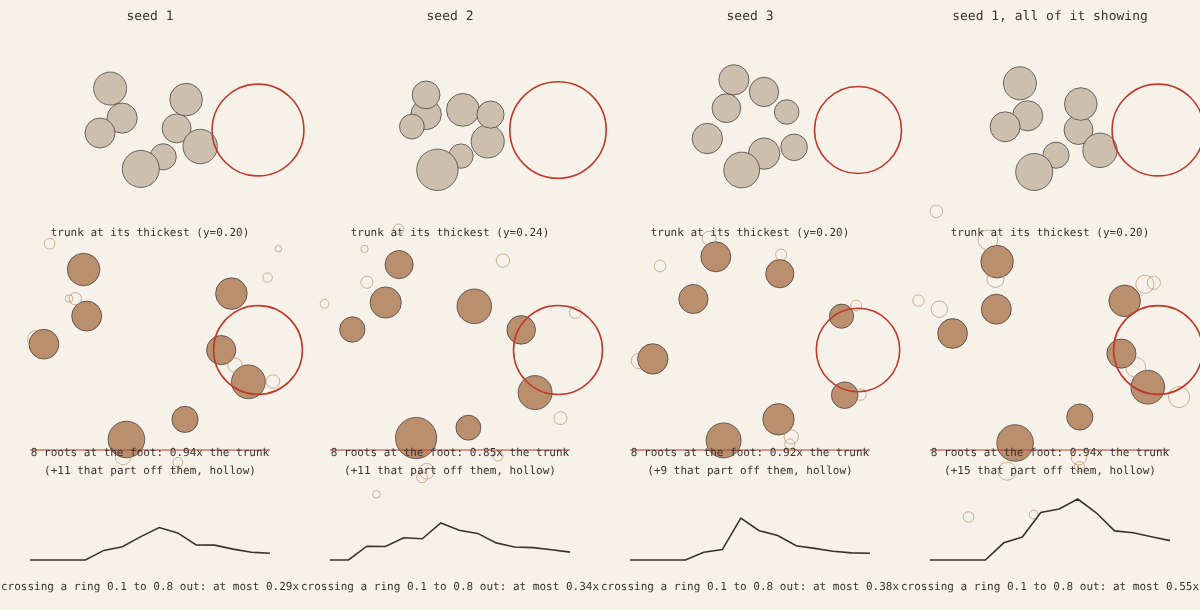
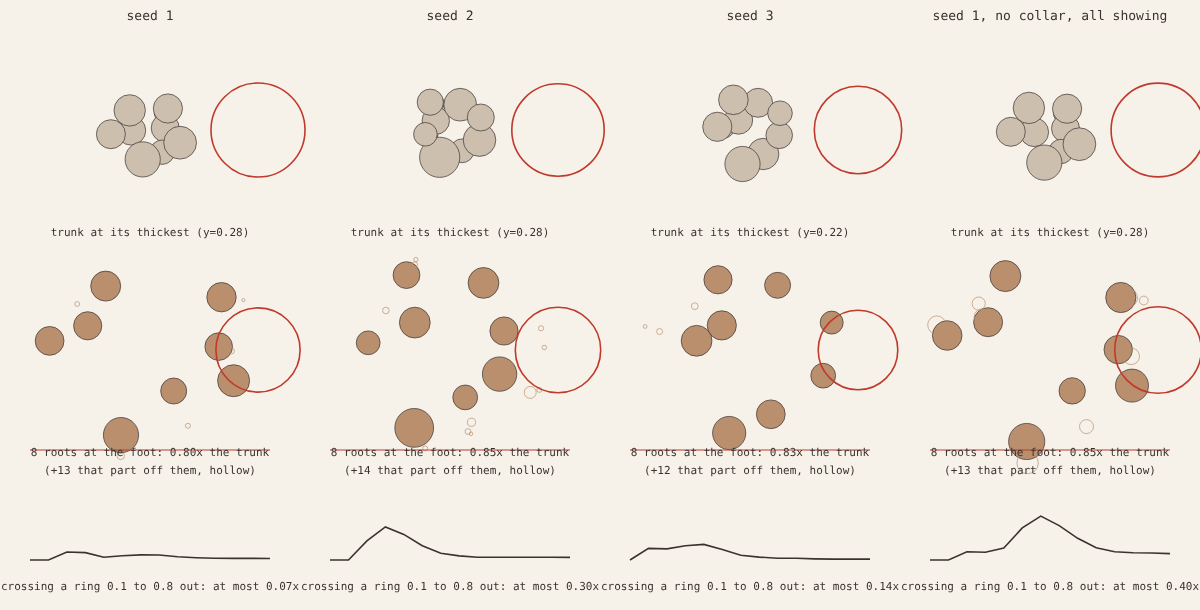
Roots half as long, and thin along their run while leaving the trunk at its own girth: a buttress rather than a leg
Claude-Session: https://claude.ai/code/session_0192rgp75jGkttZXf7hEakip

diff --git a/trees.js b/trees.js
@@ -30,7 +30,7 @@
   function frames(P) { let N = null; return P.map((p, i) => { const T = unit([0, 1, 2].map((k) => P[Math.min(P.length - 1, i + 1)][k] - P[Math.max(0, i - 1)][k])); N = unit((N || [1, 0, 0.2]).map((v, k, A) => v - T[k] * dot(A, T))); return [T, N, cross(T, N)]; }); }
 
   function grow(recipe) {
-    const P = Object.assign({ strands: 8, fill: 0.75, uneven: 0.5, twist: 0.5, taut: 0.3, stiff: 0.05, hug: 0.15, bind: 0.004, roots: 0.6, wind: 1.1, mixed: false, lmax: 0, set: 0, swell: 1, feet: 0, lap: 0, ground: null, down: 0.6, crease: 0.5, snake: 1, air: 0.18, reach: 0.6, forks: 1, dive: 0.12, grip: 0.62, clear: 1, settle: 0, giving: 0.75, passes: 1500, ds: 0.035, seed: 1, trunk: [[0, 0.14, 0, 0.27], [0, 1.6, 0, 0.1]], limbs: [], orb: null }, recipe);
+    const P = Object.assign({ strands: 8, fill: 0.75, uneven: 0.5, twist: 0.5, taut: 0.3, stiff: 0.05, hug: 0.15, bind: 0.004, roots: 0.6, wind: 1.1, mixed: false, lmax: 0, set: 0, swell: 1, feet: 0, lap: 0, ground: null, down: 0.6, crease: 0.5, snake: 1, air: 0.18, reach: 0.6, forks: 1, dive: 0.12, grip: 0.36, collar: 2.7, flare: 0.06, clear: 1, settle: 0, giving: 0.75, passes: 1500, ds: 0.035, seed: 1, trunk: [[0, 0.14, 0, 0.27], [0, 1.6, 0, 0.1]], limbs: [], orb: null }, recipe);
     // The ground, if the tree is given one: any function of a place that is how far it is outside the ground (less than
     // nothing inside). Without one the ground is the level at height 0, as it always was. (A grown tree is always given one, level if nothing else, so that its roots are walked.)
     const G = P.ground, gradG = G ? (x, y, z) => { const e = 0.008; return unit([G(x + e, y, z) - G(x - e, y, z), G(x, y + e, z) - G(x, y - e, z), G(x, y, z + e) - G(x, y, z - e)]); } : null, rootPts = [];
@@ -50,14 +50,16 @@
     //   and takes hold where it lands. If not, it stays on the surface.
     //   It keeps its girth along its length: it gets finer by dividing, not by tapering. But not all of what the
     //   trunk carries comes out where it can be seen. Only `grip` of a strand's girth leaves as a surface root;
-    //   the rest goes straight down at the foot and is never drawn. So a root narrows from the trunk's own girth
-    //   to that over the first short stretch, which is the collar, and all the roots together are then well under
-    //   the trunk's section, as they must be. Only a root that does not go into the ground runs out to a point.
+    //   the rest goes straight down at the foot and is never drawn. But it leaves at the trunk's own girth and
+    //   narrows to its running girth within `flare`, under a trunk's width: so the wood is continuous out of the
+    //   trunk, as a buttress, and thin along the ground, and the roots together are well under the trunk's
+    //   section, as they must be. (`collar` x `grip` is about 1: the two are set together.) Only a root that does
+    //   not go into the ground runs out to a point. A root that parted off another has no collar of its own.
     // Going down a face or through the air counts little toward its length, so a root that leaves the level it
     // began on runs on until it has ground under it again.
     const walk = G ? (p0, away, rho0, len, dives, collar) => { const rx = [], rr = [], c0 = G(p0[0], p0[1], p0[2]), most = Math.round(len / ds) * 5, kmax = ds / (2.6 * Math.max(0.025, rho0)), wob = TAU * r(), wl = 0.25 + 0.3 * r();
       let pos = p0, h = away, prog = 0, curl = 0, air = 0, gone = 0;
-      const girth = (g, far) => rho0 * (collar ? P.grip + (1 - P.grip) * Math.pow(Math.max(0, 1 - far / (2 * P.dive)), 1.5) : 1) * (dives ? 1 : Math.pow(Math.min(1, (1 - g) / 0.22), 0.7) * 0.9 + 0.1);
+      const girth = (g, far) => rho0 * (collar ? P.grip * (1 + (P.collar - 1) * Math.pow(Math.max(0, 1 - far / P.flare), 1.6)) : 1) * (dives ? 1 : Math.pow(Math.min(1, (1 - g) / 0.22), 0.7) * 0.9 + 0.1);
       const room = (pr, own) => { if (Math.abs(pr[0]) > 0.97 || Math.abs(pr[2]) > 0.97) return 0; let near = 0.22; for (const q of rootPts) near = Math.min(near, H(pr[0] - q[0], pr[1] - q[1], pr[2] - q[2])); for (let e = 0; e < own; e++) near = Math.min(near, H(pr[0] - rx[e][0], pr[1] - rx[e][1], pr[2] - rx[e][2])); return near; };
       for (let m = 1; m <= most && prog < len; m++) { const g = Math.min(1, prog / len), rad = girth(g, gone), nn = gradG(pos[0], pos[1], pos[2]), hug = rad * (0.4 + 0.22 * Math.sin(wob + TAU * gone / wl)), want = c0 + (hug - c0) * sstep(0, P.dive, gone) - (dives ? 0.3 * sstep(0.72, 1, g) : 0);
         let tt = h.map((v, k) => v - nn[k] * dot(h, nn)); const dn = UP.map((v, k) => -(v - nn[k] * nn[1])), dl = H(dn[0], dn[1], dn[2]); if (H(tt[0], tt[1], tt[2]) < 0.2) tt = dl > 1e-6 ? dn : cross(nn, [1, 0, 0]); tt = unit(tt);
@@ -122,7 +124,8 @@
       }
       // its root: the strand itself coming down from the foot of the trunk the way it faces there, heavy, and
       // most often going into the ground. A few stay on it and run out to a point.
-      const p0 = X[0], away = H(p0[0] - trunk[0][0], p0[2] - trunk[0][2]) > 1e-4 ? unit([p0[0] - trunk[0][0], 0, p0[2] - trunk[0][2]]) : [1, 0, 0], len = P.roots * (0.5 + 0.5 * r()), bend = 2.6 * (r() - 0.5), dives = r() < 0.75, rx = [], rr = [], rg = []; let q = p0, Kr = Math.max(6, Math.round(len / ds));
+      // (on ground nearly all roots go into it at their end; the old flat roots are left as they were)
+      const p0 = X[0], away = H(p0[0] - trunk[0][0], p0[2] - trunk[0][2]) > 1e-4 ? unit([p0[0] - trunk[0][0], 0, p0[2] - trunk[0][2]]) : [1, 0, 0], len = P.roots * (0.5 + 0.5 * r()), bend = 2.6 * (r() - 0.5), dives = r() < (G ? 0.9 : 0.75), rx = [], rr = [], rg = []; let q = p0, Kr = Math.max(6, Math.round(len / ds));
       if (!G) {
         for (let m = 1; m <= Kr; m++) { const g = m / Kr, t = bend * g * g, dir = [away[0] * Math.cos(t) - away[2] * Math.sin(t), 0, away[0] * Math.sin(t) + away[2] * Math.cos(t)], rad = rho[0] * (dives ? 0.5 + 0.5 * (1 - g) : 0.2 + 0.8 * Math.pow(1 - g, 0.8));
           q = [q[0] + dir[0] * ds, p0[1] + (rad * 0.6 - p0[1]) * sstep(0, 0.8, g) - (dives ? 0.35 * sstep(0.6, 1, g) : 0), q[2] + dir[2] * ds]; rx.push(q); rr.push(rad); rg.push(q); }
@@ -154,16 +157,16 @@
     // side as a root of its own, walked like any other from there, and what goes on is that much the less. A root
     // that has parted off may part once more. So the foot has a few heavy roots, and the ground further out has
     // many fine ones, each traceable back to a heavy one: the way the tree divides above the ground, upside down.
-    if (G && P.forks) { const part = (pi, depth) => { const par = S[pi], n = depth ? (r() < 0.35 * P.forks ? 1 : 0) : 1 + (r() < 0.45 * P.forks ? 1 : 0); let u = 0.15 + 0.2 * r();
-        for (let e = 0; e < n; e++, u += 0.22 + 0.2 * r()) { if (u > 0.75) break; const k = Math.round((1 - u) * par.root); if (k < 8 || k > par.root - 2) continue;
+    if (G && P.forks) { const part = (pi, depth) => { const par = S[pi], n = depth ? (r() < 0.35 * P.forks ? 1 : 0) : 1 + (r() < 0.45 * P.forks ? 1 : 0); let u = 0.1 + 0.18 * r();
+        for (let e = 0; e < n; e++, u += 0.2 + 0.18 * r()) { if (u > 0.75) break; const k = Math.round((1 - u) * par.root); if (k < 4 || k > par.root - 2) continue;
           const pos = [par.X[k * 3], par.X[k * 3 + 1], par.X[k * 3 + 2]], d = unit([par.X[(k - 2) * 3] - pos[0], par.X[(k - 2) * 3 + 1] - pos[1], par.X[(k - 2) * 3 + 2] - pos[2]]), nn = gradG(pos[0], pos[1], pos[2]), sd = cross(nn, d), a = (r() < 0.5 ? -1 : 1) * (0.4 + 0.4 * r());
           const dir = unit(d.map((v, c) => v * Math.cos(a) + sd[c] * Math.sin(a))), share = 0.34 + 0.24 * r(), rb = par.rho[k] * Math.sqrt(share);
-          if (rb < 0.012) continue; const w = walk(pos, dir, rb, Math.max(0.2, k * ds * (0.3 + 0.3 * r())), r() < 0.75, 0); if (w.rx.length < 6) continue;   // (a part of a root runs a good deal shorter than what is left of the root it came off)
+          if (rb < 0.005) continue; const w = walk(pos, dir, rb, Math.max(0.2, k * ds * (0.3 + 0.3 * r())), r() < 0.9, 0); if (w.rx.length < 6) continue;   // (a part of a root runs a good deal shorter than what is left of the root it came off)
           for (let j = 0; j < k; j++) par.rho[j] *= 1 + (Math.sqrt(1 - share) - 1) * sstep(k, k - 4, j);
           const pts = w.rx.slice().reverse().concat([pos]), K = pts.length, X = Float64Array.from(pts.flat()); for (const q of w.rx) rootPts.push(q);
           S.push({ X, goal: Float64Array.from(X), rho: Float64Array.from(w.rr.slice().reverse().concat([rb])), hold: Float64Array.from({ length: K }, (_, j) => (j < K * 0.45 ? 0.2 : 0)), root: K, K, limb: -1, limbAt: -1, a: par.a, b: par.b, fat: par.fat * Math.sqrt(share), bend: Math.min(par.bend, 0.055), give: 1, snapped: false, rootOf: pi, po: k });
           if (!depth) part(S.length - 1, 1); } };
-      const first = S.length; for (let i = 0; i < first; i++) if (S[i].root > 14 && S[i].stem === undefined) part(i, 0); }
+      const first = S.length; for (let i = 0; i < first; i++) if (S[i].root > 7 && S[i].stem === undefined) part(i, 0); }
     if (G) for (const s of S) { s.gc = new Float64Array(s.K); for (let k = 0; k < s.K; k++) s.gc[k] = G(s.goal[k * 3], s.goal[k * 3 + 1], s.goal[k * 3 + 2]); }   // how far off the ground each place on a strand was meant to be
     // Where a shoot snapped off (a limb given as a `stub`). Three ages of the same event:
     //   fresh   the stub stands, its strands broken off a little apart
@@ -371,7 +374,7 @@
   // rule, and `share` is its main number (small: a leader with side shoots; a half: even forks and no leader).
   // Returns { strands, trunk, limbs } for grow(), and what it made (shoots, tips, deepest).
   function sprout(rule) {
-    const Q = Object.assign({ strands: 18, seed: 1, share: 0.35, every: 0.1, first: 0.25, spread: 1.3, up: 0.4, wander: 0.5, reach: 1.15, tall: 1.1, twig: 0.22, foot: 0.2, step: 0.08, kink: 0.7, bout: 0.16, set: 0.8, snap: 0, as: 'mixed', least: 2, most: 0.25, regrow: true, feet: 8, lap: 0.3, ground: null, site: [0, 0], roots: 1.1 }, rule), r = rng(Q.seed + 700), n = Q.strands, st = Q.step;
+    const Q = Object.assign({ strands: 18, seed: 1, share: 0.35, every: 0.1, first: 0.25, spread: 1.3, up: 0.4, wander: 0.5, reach: 1.15, tall: 1.1, twig: 0.22, foot: 0.2, step: 0.08, kink: 0.7, bout: 0.16, set: 0.8, snap: 0, as: 'mixed', least: 2, most: 0.25, regrow: true, feet: 8, lap: 0.3, ground: null, site: [0, 0], roots: 0.55 }, rule), r = rng(Q.seed + 700), n = Q.strands, st = Q.step;
     const length = (c) => Q.reach * (Q.twig + Math.sqrt(c / n)), Gq = Q.ground, inside = (p) => Math.abs(p[0]) < 0.9 && Math.abs(p[2]) < 0.9 && p[1] < 1.9 && (Gq ? Gq(p[0], p[1], p[2]) > 0.12 : p[1] > 0.3), laid = [];   // every point of every shoot so far
     const open = (p) => { let d = Gq ? Math.max(0, Gq(p[0], p[1], p[2])) * 1.2 : 9; for (const q of laid) d = Math.min(d, H(p[0] - q[0], p[1] - q[1], p[2] - q[2])); return d; };   // (open: far from every shoot, and from the ground and any rock)
     let shoots = 0, tips = 0, deepest = 0;

diff --git a/sketch/page11.js b/sketch/page11.js
@@ -20,7 +20,7 @@
     ['in a cleft', all(under([0, 1, 0.06], [0, 0.08, 0]), rock([-0.5, 0.3, 0.02], 0.36, 13, [1, 1.1, 1.2]), rock([0.5, 0.28, -0.04], 0.36, 17, [1, 1.05, 1.2])), [0, 0], 4],
   ];
   const quick = typeof location !== 'undefined' ? +new URLSearchParams(location.search).get('h') : 0;   // ?h=0.013 for a quick look
-  const S = SITES.map(([name, ground, site, seed]) => [name, tree(Object.assign({ seed }, Trees.sprout({ seed, strands: 14, feet: 6, foot: 0.16, tall: 0.8, reach: 0.85, twig: 0.2, ground, site, roots: 1.3 })))]);
+  const S = SITES.map(([name, ground, site, seed]) => [name, tree(Object.assign({ seed }, Trees.sprout({ seed, strands: 14, feet: 6, foot: 0.16, tall: 0.8, reach: 0.85, twig: 0.2, ground, site, roots: 0.65 })))]);
   if (typeof location !== 'undefined') { const only = new URLSearchParams(location.search).get('only'); if (only) { const keep = only.split(',').map(Number).map((i) => S[i]).filter(Boolean); S.length = 0; S.push(...keep); } }   // ?only=2 builds just that one
   window.Fantastic = { grounds: SITES.map((s) => s[1]), fields: S.map((s) => s[1]), names: S.map((s) => s[0]), orbs: S.map((s) => s[1].orb), counts: S.map((s) => s[1].count), build: (i) => { const g = mesh(S[i][1], S[i][0], quick || 0.0085, 2.05), n = g.pos.length / 3; g.layer = new Uint8Array(n); for (let q = 0; q < n; q++) g.layer[q] = S[i][1].layerAt(g.pos[q * 3] - g.nrm[q * 3] * 0.004, g.pos[q * 3 + 1] - g.nrm[q * 3 + 1] * 0.004, g.pos[q * 3 + 2] - g.nrm[q * 3 + 2] * 0.004); return g; }, mesh, kit: Fantastic.kit };
 })();

diff --git a/LOG.md b/LOG.md
@@ -3068,3 +3068,43 @@ Wrong, or not there:
 - Fine roots are smooth: the flat-faced pieces do not show at that girth.
 - Roots run to the edge of the ground they are given and stop there.
 - `grip` is a number I chose by eye at 0.62. Nothing derives it.
+
+Run 021, continued. Said of the result: better, but the roots are about
+twice too long and still about 70% too thick where they start.
+
+Both taken as given. The length is halved (`roots` 1.1 to 0.55). The
+girth took three tries to get right, and the last two were instructive.
+
+- Thinned the whole root by 1.7, collar and all. The roots came out as
+  claws and the trunk ended in a cliff: it was thick, and then eight thin
+  hooks, with nothing between. Also the divisions stopped, because a root
+  that thin never reaches the girth a part needs to be worth having.
+- So: thin the *run*, not the start. A root now leaves at the trunk's own
+  girth and narrows to `grip` (0.36) of it within `flare` (0.06, under a
+  trunk's width). The wood is continuous out of the trunk, as a buttress,
+  and thin along the ground. Divisions take it down further: a root is a
+  third of its leaving girth half way along, and most of that is the
+  parting, not a taper.
+
+So what was 70% too thick was the root as it runs, and the start wanting
+to stay thick was the only thing holding the trunk and the ground
+together. Thinning both at once broke the join and I could not see why
+until I put them back one at a time.
+
+      girth where a root leaves the trunk   0.059  (the strand's own, 0.063)
+      girth half way along                  0.014
+      length                                0.52   (was 1.0)
+      roots crossing a ring, at most        0.07 to 0.30 of the trunk
+
+`sketch/page9.png`, `-foot`, `-from-above`, `-cut`; `sketch/page11.png`,
+`-other-side`, `-from-above`. Page 7's four trees unchanged to the last
+digit — nearly not: on ground almost every root now goes into it at its
+end rather than running out to a point, and the first way I wrote that
+changed the one random draw that every flat root also makes, which moved
+two of the four. The draw is now the same and only the threshold differs.
+
+Wrong, or not there:
+- A few roots still arc through the air in smooth even loops.
+- The cleft tree has little to grip and comes out sparse.
+- `grip`, `collar` and `flare` are three numbers set by eye against one
+  judgement. Nothing derives them, and they are not independent.
